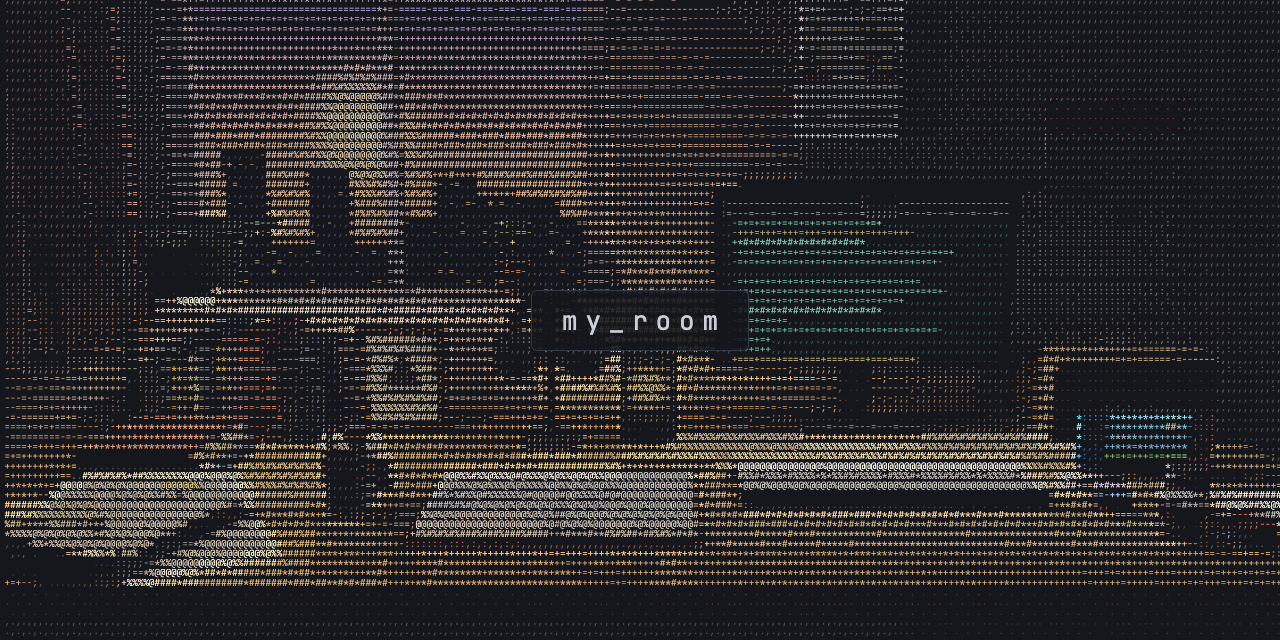
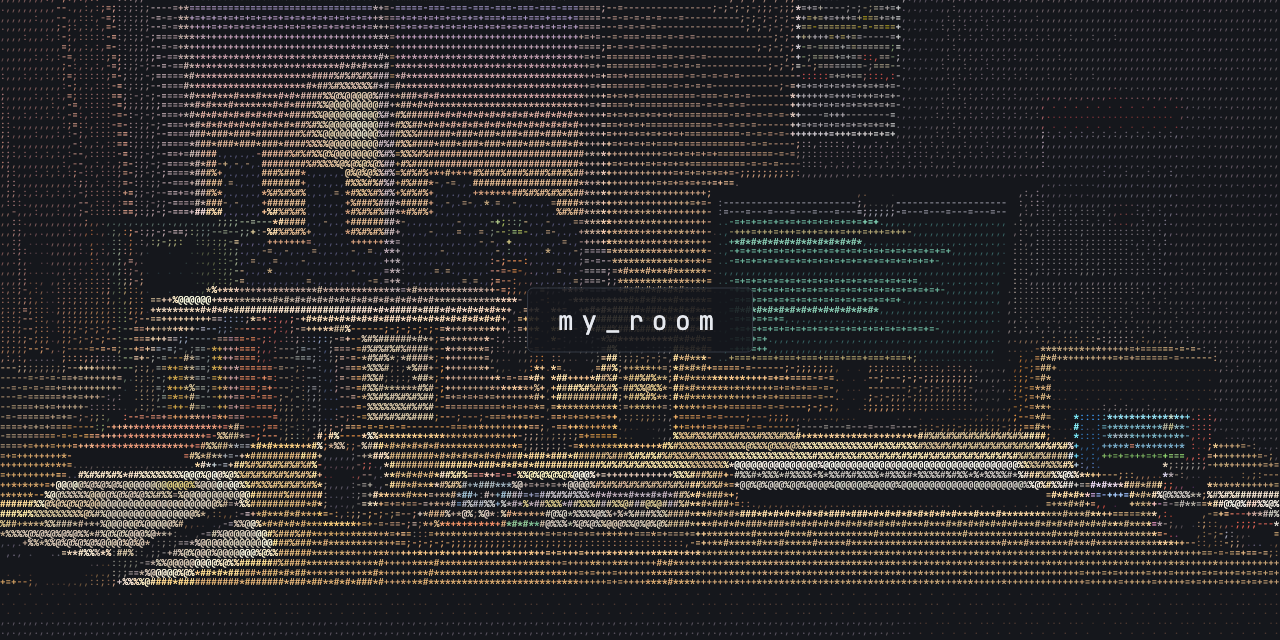
日記帳をクラフト紙のリングノートのコラージュにする
Paper Diary の実物に合わせて、日記帳を左にリングの付いたクラフト紙の
ノートにし、開いたページにチラシや切符の切り抜きを隙間なく貼った
コラージュを描く。横に置いていた万年筆は外す。

部屋の絵が変わったので、リンクのプレビュー（OGP）の画像を撮り直す。
README も同じ画像を参照し、別に持っていた screenshot.png は消す。

diff --git a/scene.js b/scene.js
@@ -26,6 +26,45 @@
   const POSTER = "happy";
   const POSTER_TALL = { x0: 0.34, x1: 0.55, y0: 1.34, y1: 1.64 };   // モニター上端（1.27）から少し離す
 
+  // 日記帳のコラージュ。ページの範囲（ワールド座標）と、貼った切り抜き [u0, u1, v0, v1, 柄]
+  // u は左（リング側）→右、v は手前→奥（ページの下→上）
+  const SCRAP = {
+    x0: -0.31, x1: 0.1, z0: 0.05, z1: 0.32, rings: 13,
+    pieces: [
+      [0.08, 0.3, 0.72, 0.96, "poster"], [0.3, 0.52, 0.84, 0.96, "ticket"], [0.52, 0.61, 0.82, 0.96, "stamp"],
+      [0.61, 0.95, 0.55, 0.96, "wood"], [0.08, 0.3, 0.4, 0.72, "sea"], [0.3, 0.61, 0.55, 0.84, "text"],
+      [0.3, 0.95, 0.38, 0.55, "banner"], [0.08, 0.3, 0.2, 0.4, "diamond"], [0.3, 0.45, 0.2, 0.38, "photo"],
+      [0.45, 0.68, 0.06, 0.38, "ink"], [0.68, 0.9, 0.07, 0.38, "dots"], [0.08, 0.45, 0.04, 0.2, "ad"]
+    ]
+  };
+  // 切り抜きの柄。s, t は切り抜きの中の位置（0〜1、t は上ほど 1）
+  const SCRAP_KIND = {
+    poster: (s, t) => t > 0.74 && t < 0.92 && s > 0.08 && frac(s * 4.5) < 0.7 ? [0.82, 0.16, 0.14]
+      : s > 0.35 && s < 0.55 && t < 0.62 && t > 0.1 ? [0.4, 0.38, 0.36] : [0.1, 0.1, 0.12],
+    ticket: (s, t) => (frac((s + t) * 6) < 0.5 ? [0.9, 0.78, 0.42] : [0.78, 0.82, 0.55]),
+    stamp: (s, t) => (Math.hypot(s - 0.5, (t - 0.5) * 0.6) < 0.28 && frac(t * 8) < 0.6 ? [0.78, 0.2, 0.2] : [0.95, 0.93, 0.9]),
+    wood(s, t) {
+      const bx = Math.floor(s * 4), by = Math.floor(t * 3), h = hash2(bx, by);
+      if (h > 0.45 && frac(s * 4) > 0.15 && frac(s * 4) < 0.85 && frac(t * 3) > 0.25 && frac(t * 3) < 0.75)
+        return frac(t * 3) > 0.62 ? [0.95, 0.9, 0.84] : [0.7, 0.48, 0.36];
+      return t > 0.7 ? [0.22, 0.2, 0.2] : [0.58, 0.42, 0.28];
+    },
+    sea(s, t) {
+      const body = Math.hypot((s - 0.55) * 1.4, t - 0.55) < 0.3, belly = Math.hypot((s - 0.6) * 1.6, t - 0.42) < 0.12;
+      if (belly) return [0.95, 0.95, 0.95];
+      if (body || Math.hypot((s - 0.2) * 2, t - 0.8) < 0.1) return [0.06, 0.07, 0.1];
+      return [0.18 + 0.15 * t, 0.42 + 0.2 * t, 0.85];
+    },
+    text: (s, t) => (s > 0.1 && s < 0.9 && frac(t * 7) < 0.35 && s < 0.3 + 0.6 * hash(Math.floor(t * 7)) ? [0.2, 0.2, 0.22] : [0.96, 0.95, 0.92]),
+    banner: (s, t) => (s > 0.08 && t > 0.2 && t < 0.85 && frac(s * 5) < 0.6 ? [0.98, 0.9, 0.35] : [0.13, 0.25, 0.68]),
+    diamond: (s, t) => (Math.abs(frac(s * 3) - 0.5) + Math.abs(frac(t * 3) - 0.5) < 0.28 ? [0.06, 0.06, 0.07] : [0.97, 0.96, 0.94]),
+    photo: (s, t) => (t > 0.6 ? [0.86, 0.72, 0.6] : [0.62 - 0.2 * frac(s * 3), 0.32, 0.22]),
+    ink: (s, t) => (Math.abs(Math.sin(s * 9 + t * 5) * 0.3 + 0.5 - t) < 0.06 + 0.05 * hash(Math.floor(s * 12)) ? [0.32, 0.4, 0.36] : [0.92, 0.94, 0.9]),
+    dots: (s, t) => (Math.abs(Math.hypot(frac(s * 2.2) - 0.5, frac(t * 3) - 0.5) - 0.3) < 0.06 ? [0.16, 0.18, 0.28] : [0.88, 0.82, 0.68]),
+    ad: (s, t) => (t > 0.38 && t < 0.62 && s > 0.06 && s < 0.9 ? (frac(s * 9) < 0.7 ? [0.97, 0.96, 0.94] : [0.82, 0.18, 0.12])
+      : s > 0.62 ? [0.14, 0.45, 0.3] : [0.84, 0.2, 0.14])
+  };
+
   // ---- マテリアル --------------------------------------------------------
   const M = (c, extra) => Object.assign({ c }, extra || {});
   const plaster = [0.80, 0.74, 0.66];
@@ -108,15 +147,21 @@
       if (v > 0.08 && v < 0.9 && u > 0.1 && frac(v * 22) < 0.3 && u < 0.2 + 0.7 * hash(row * 3.7 + p[1] * 900)) return [0.38, 0.38, 0.44];
       return [0.95, 0.94, 0.9];
     },
-    notebook(p) {
-      const x = p[0], z = p[2];
-      if (Math.abs(x + 0.11) < 0.006) return [0.55, 0.52, 0.48]; // のど
-      const v = (z - 0.06) * 55;
-      if (frac(v) < 0.1) return [0.62, 0.72, 0.85];
-      const row = Math.floor(v), left = x < -0.11;
-      const endX = left ? -0.3 + 0.17 * hash(row) : -0.09 + 0.14 * hash(row + 17);
-      if (z > 0.1 && frac(v) > 0.35 && frac(v) < 0.75 && x < endX && x > (left ? -0.3 : -0.09) && frac(x * 70) < 0.7 && (left || row > 4)) return [0.18, 0.2, 0.35];
-      return [0.96, 0.94, 0.88];
+    // リングノートのクラフト紙のページに、チラシや切符の切り抜きを隙間なく貼ったコラージュ
+    scrapbook(p, n) {
+      if (n[1] < 0.5) return [0.9, 0.86, 0.76];                       // 紙の束の小口
+      const u = (p[0] - SCRAP.x0) / (SCRAP.x1 - SCRAP.x0), v = (p[2] - SCRAP.z0) / (SCRAP.z1 - SCRAP.z0);
+      const kraft = [0.66, 0.5, 0.33];
+      // リングを通す穴（左端に並ぶ）
+      if (u < 0.06 && Math.hypot((u - 0.03) * 1.5, frac(v * SCRAP.rings) - 0.5) < 0.22) return [0.12, 0.09, 0.07];
+      for (const [u0, u1, v0, v1, kind] of SCRAP.pieces) {
+        if (u < u0 + 0.004 || u > u1 - 0.004 || v < v0 + 0.006 || v > v1 - 0.006) continue;
+        const s = (u - u0) / (u1 - u0), t = (v - v0) / (v1 - v0);
+        return SCRAP_KIND[kind](s, t);
+      }
+      // 右下に鉛筆で書いた年月
+      if (u > 0.8 && u < 0.94 && v > 0.012 && v < 0.05 && frac(u * 60) < 0.55) return [0.3, 0.27, 0.24];
+      return kraft;
     },
     keyboard(p, n) {
       if (n[1] < 0.5) return [0.2, 0.2, 0.22];
@@ -283,11 +328,12 @@
   C(-0.45, 0.2, 0.045, TOP, TOP + 0.11, M(null, { tex: tex.mug }), "mug");
   B(-0.405, TOP + 0.03, 0.195, -0.385, TOP + 0.08, 0.205, M([0.92, 0.9, 0.86]), "mug");
 
-  // 日記帳（Paper Diary）
-  B(-0.33, TOP, 0.04, 0.11, TOP + 0.008, 0.33, M([0.35, 0.16, 0.11]), "diary");
-  B(-0.32, TOP + 0.008, 0.05, 0.1, TOP + 0.016, 0.32, M(null, { tex: tex.notebook }), "diary");
-  B(-0.02, TOP + 0.016, 0.335, 0.13, TOP + 0.026, 0.345, M([0.1, 0.12, 0.35]), "diary");
-  B(0.13, TOP + 0.017, 0.337, 0.15, TOP + 0.024, 0.343, metal, "diary");
+  // 日記帳（Paper Diary）: クラフト紙の表紙のリングノート。開いたページはチラシや切符のコラージュ
+  B(-0.33, TOP, 0.04, 0.11, TOP + 0.008, 0.33, M([0.5, 0.36, 0.22]), "diary");
+  B(SCRAP.x0, TOP + 0.008, SCRAP.z0, SCRAP.x1, TOP + 0.016, SCRAP.z1, M(null, { tex: tex.scrapbook }), "diary");
+  for (let i = 0; i < SCRAP.rings; i++) {                                               // 左端のリング
+    S(SCRAP.x0 - 0.004, TOP + 0.016, SCRAP.z0 + (i + 0.5) / SCRAP.rings * (SCRAP.z1 - SCRAP.z0), 0.0065, metal, "diary");
+  }
 
   // 携帯ゲーム機（Games）: スタンドで立てて画面をこちらに向けたテーブルモード。
   // 画面の左に青、右に赤のコントローラー

diff --git a/README.md b/README.md
@@ -1,3 +1,3 @@
 # my_room
 
-![](screenshot.png)
+![](social-preview.png)
